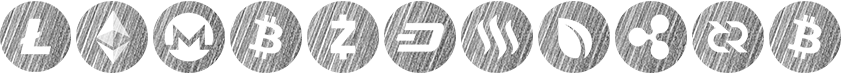
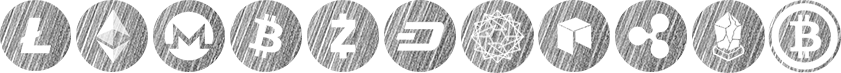
1 wave of edits

Changed region(s): [[0.0, 0.0, 1.0, 1.0], [0.9275, 0.9863, 0.9893, 1.0]]

diff --git a/css/main.css b/css/main.css
@@ -2,7 +2,7 @@
 @import url("bootstrap.min.css");
 @import url("style.css");
 body {
-	color: #3f3f3f;
+  color: #3f3f3f;
  font-family: "Helvetica";
   font-weight: normal;
   font-size: 14px;
@@ -32,7 +32,7 @@ h2, .h2, h3, .h3{margin: 0;}
 @media (min-width:992px) {.ccontainer { width: 960px; max-width: 100%  }}
 @media (min-width:1200px) {.ccontainer {width: 1170px;max-width: 100%}}
 .rrow {  display: -webkit-box;   display: -webkit-flex;   display: -ms-flexbox;   display: flex;   -webkit-flex-wrap: wrap;   -ms-flex-wrap: wrap;   flex-wrap: wrap;  margin-right: -15px;  margin-left: -15px}
-.get-started {  position: relative;padding-top: 181px;padding-bottom: 133px;}
+.get-started {  position: relative;padding-top: 181px;padding-bottom: 133px;background-image: url(../img/second-bg-top.png),url(../img/second-bg-bott.png);background-repeat: no-repeat;background-size: 76.4% auto;background-position: right 10%,right 90%;}
 .get-started-img-block {  position: absolute; left: 0; top: 19%; margin: auto; width: 47.8%;}
 .get-started-img-block > img {  position: absolute;-webkit-transition: all .3s ease-out;-o-transition: all .3s ease-out;transition: all .3s ease-out;}
 .get-started-img-block img:nth-child(1) { position: relative;width: 100%;}
@@ -61,14 +61,15 @@ h2, .h2, h3, .h3{margin: 0;}
 .integration-text li p {  position: relative; padding-left: 34px;}
 .integration-text li > p::before {  content: '';   width: 36px;   height: 1px;  background-color: #b59561;  display: block;  margin-left: -8px;  position: absolute;  top: 0;  bottom: 0;  margin: auto;  left: -8px;}
 .integration-text ul + p {  margin-top: 37px;   max-width: 354px;}
-.integration-text a { border: 1px solid black;   color: black;   text-decoration: none;   display: block;   width: 199px;   text-align: center;   margin-top: 52px;   line-height: 52px;  border-radius: 6px;}
+.integration-text a { border: 1px solid black;   color: black;   text-decoration: none;   display: block;   width: 199px;   text-align: center;   margin-top: 52px;   line-height: 52px;  border-radius: 6px;-webkit-transition: 0.5s;-o-transition: 0.5s;transition: 0.5s;}
 .integration-img-block {  position: absolute;   top: 190px;   right: 22%;   width: 31.3%;   height: 54%;}
 .integration-img-block > img {  position: absolute;  -webkit-transform: scale(0);  -ms-transform: scale(0);  transform: scale(0);}
-.integration-img-block img:nth-child(1) {top: 16%;    left: 5%;    width: 73.17%;    z-index: 4; -webkit-transition: all .3s ease-out; -o-transition: all .3s ease-out; transition: all .3s ease-out;}
-.integration-img-block img:nth-child(2) { top: 23%;  left: 32%;   width: 26.8%;  z-index: 3; -webkit-transition: all .3s ease-out .3s; -o-transition: all .3s ease-out .3s; transition: all .3s ease-out .3s;}
-.integration-img-block img:nth-child(3) {  top: 32%;   left: 32%;   z-index: 2;   width: 43.2%; -webkit-transition: all .3s ease-out .6s; -o-transition: all .3s ease-out .6s; transition: all .3s ease-out .6s;}
-.integration-img-block img:nth-child(4) { z-index: 1;    left: 4.5%;    top: 26%;   width: 51.85%; -webkit-transition: all .3s ease-out .9s; -o-transition: all .3s ease-out .9s; transition: all .3s ease-out .9s;}
-.integration-img-block img:nth-child(5) {  z-index: 1;   left: 32%;  top: 36%;  width: 39.7%; -webkit-transition: all .3s ease-out .9s; -o-transition: all .3s ease-out .9s; transition: all .3s ease-out .9s;}
+.integration-img-block img:nth-child(1) {top: 16%;    left: 5%;    width: 73.17%;    z-index: 4; -webkit-transition: all .5s ease-out; -o-transition: all .5s ease-out; transition: all .5s ease-out;}
+.integration-img-block img:nth-child(2) { top: 23%;  left: 32%;   width: 26.8%;  z-index: 3; -webkit-transition: all .5s ease-out .3s; -o-transition: all .5s ease-out .3s; transition: all .5s ease-out .3s;}
+.integration-img-block img:nth-child(3) {  top: 32%;   left: 32%;   z-index: 2;   width: 43.2%; -webkit-transition: all .5s ease-out .6s; -o-transition: all .5s ease-out .6s; transition: all .5s ease-out .6s;}
+.integration-img-block img:nth-child(4) { z-index: 1;    left: 4.5%;    top: 26%;   width: 51.85%; -webkit-transition: all .5s ease-out .9s; -o-transition: all .5s ease-out .9s; transition: all .5s ease-out .9s;}
+.integration-img-block img:nth-child(5) {  z-index: 1;   left: 32%;  top: 36%;  width: 39.7%; -webkit-transition: all .5s ease-out .9s; -o-transition: all .5s ease-out .9s; transition: all .5s ease-out .9s;}
+.integration-img-block img:nth-child(6) {  left: -44%;   top: -70%;   width: 207%; -webkit-transition: all .8s ease-out; -o-transition: all .8s ease-out; transition: all .8s ease-out;}
 .integration-img-block.actived img{-webkit-transform: scale(1);-ms-transform: scale(1);transform: scale(1);}
 .integration-img-block.actived img:nth-child(2) { top: 0; left: 38%;}
 .integration-img-block.actived img:nth-child(3) { top: 18%; left: 53%;}
@@ -153,7 +154,7 @@ h2, .h2, h3, .h3{margin: 0;}
 .instant-text h2 {  font-size: 40px;   max-width: 300px;}
 .instant-text h2::after {  width: 69px;   display: block;   background-color: #caa17a;   height: 4px;   margin-top: 24px;  content: '';}
 .instant-text p {  font-size: 16px;   max-width: 446px;   margin-top: 58px;  line-height: 1.85;}
-.instant-text a {  color: #b59561;   border: 1px solid #b59561;  width: 200px;   display: block;   text-align: center;  text-decoration: none; margin-top: 69px;   line-height: 52px;   font-size: 18px;   border-radius: 5px;}
+.instant-text a {  color: #b59561;   border: 1px solid #b59561;  width: 200px;   display: block;   text-align: center;  text-decoration: none; margin-top: 69px;   line-height: 52px;   font-size: 18px;   border-radius: 5px;-webkit-transition: 0.5s;-o-transition: 0.5s;transition: 0.5s;}
 footer { background-image: url(../img/footer-bg.jpg);padding-top: 54px;padding-bottom: 30px;}
 .footer-content {  display: -webkit-box;  display: -webkit-flex;  display: -ms-flexbox;  display: flex;   -webkit-box-pack: start;   -webkit-justify-content: flex-start;   -ms-flex-pack: start;   justify-content: flex-start;  width: 95%;  margin: 0 auto;}
 .logo-wrap {  margin-right: 9.65%;}
@@ -180,10 +181,13 @@ legend {  display: block;   width: initial;   padding: 0;  line-height: inherit;
 .currencies-links-wrap > a:nth-child(10) { background-position: 90% top;}
 .currencies-links-wrap > a:nth-child(11) { background-position: 100% top;}
 .sign_up {  color: #c0b19b;   border: 1px solid #c0b19b;   border-radius: 20px;}
-.head-btns > a {  display: inline-block;   width: 100px;   text-align: center;   line-height: 30px;   border-radius: 5px;   margin: 0 5px;}
+.head-btns > a {  display: inline-block;   width: 100px;   text-align: center;   line-height: 30px;   border-radius: 15px;  margin: 0 5px;-webkit-transition: 0.5s;-o-transition: 0.5s;transition: 0.5s;}
 .head-btns {  text-align: right;}
 .log_in {  color: #3f3f3f;   border: 1px solid #3f3f3f;}
-.cube1 {  width: 42.32%;}
-.cube2 {  width: 52%;}
+.links a {  display: inline-block;    width: 198px;    height: 54px;    border: 1px solid #313131;    line-height: 54px;    border-radius: 5px;    margin-left: 14px;    margin-right: 14px;    font-size: 20px;    color: #313131;    -webkit-transition: 0.5s;    -o-transition: 0.5s;    transition: 0.5s;}
+.links a:last-child {  color: #caa17a;   width: 180px;  border: 1px solid #caa17a;}
+.links a:hover,.head-btns>a:hover,.integration-text a:hover {  color: white;   background-color: #3f3f3f;   border-color: #3f3f3f;}
+.links a:last-child:hover,.head-btns>a:last-child:hover,.instant-text a:hover {color: white;background-color: #caa17a; border-color: #caa17a;}
+
 
 

diff --git a/css/media.css b/css/media.css
@@ -29,7 +29,7 @@
 .get-started li > p {  font-size: 16px;}
 .integration-img-block {top: 279px; height: 28%;}
 .checkout-solution {  padding-top: 37px;   padding-bottom: 80px;}
-.checkout-img-block {left: 0.6%;  top: 5%;}
+.checkout-img-block {left: -1%;  top: 5%;}
 .target-text + img {right: 0.8%;}
 .currenci-icon {   height: 50px;   width: 50px;   background-size: auto 100%;}
 .instant-curr { padding-bottom: 100px;}
@@ -41,9 +41,12 @@
 .currenci::after {top: 25px;}
 .dotted {  width: 8%;}
 .globe-wrap svg {top: -127px;left: 40px;}
+.integration-img-block img:nth-child(6) {  left: -44%;   top: -102%;   width: 207%;}
 
 }
-@media only screen and (max-width : 1050px){.dotted {  width: 1%;}}
+@media only screen and (max-width : 1050px){.dotted {  width: 1%;}
+.integration-img-block img:nth-child(6) {top: -90%;}
+}
 
 /* Medium Devices, Desktops */
 @media only screen and (max-width : 991px) {
@@ -71,10 +74,10 @@
 .percentage + p {  font-size: 14px;   margin-top: 12px;  line-height: 1.5;}
 .target-section::before {width: 31.15%;}
 .target-section::after {width: 40%;}
-.currencies h3 {  font-size: 28px;   margin-bottom: 33px;}
+.currencies h3 {  font-size: 28px;   margin-bottom: 33px;text-align: center;}
 .currencies-points .ccontainer {  width: 100%;    max-width: 500px;}
 .currenci:nth-child(6), .currenci:last-child {  margin-right: 0;}
-.currenci {  margin-right: 35px;   margin-bottom: 20px;}
+.currenci {  margin-right: 35px;   margin-bottom: 20px;width: 50px;text-align: center;}
 .currenci:nth-child(6)::after {  content: none;}
 .dotted {   display: none;}
 .currencies .rrow {    -webkit-flex-wrap: wrap;    -ms-flex-wrap: wrap;    flex-wrap: wrap;  -webkit-box-pack: center;  -webkit-justify-content: center;  -ms-flex-pack: center;  justify-content: center;}
@@ -90,16 +93,13 @@
 footer {  padding-top: 24px;}
 .globe-wrap svg {top: -91px;left: 30px;}
 .navbar-header {    float: left;}
-
-
-
-
-
-
-
+.integration-img-block {  height: 35%;}
 }
 
-
+@media only screen and (max-width : 800px){
+	.integration-img-block {  top: 180px;   height: 47%;  width: 42.3%;  right: 11%;}
+	.integration-img-block img:nth-child(6) { top: -68%;}
+}
 
 /* Small Devices, Tablets */
 @media only screen and (max-width : 767px) {
@@ -149,6 +149,7 @@ section {  padding: 0 15px;}
 .currencies {   width: 370px;  margin: 0 auto;   margin-top: 50px;}
 .navbar-header {  float: none;}
 .head-btns {  text-align: center;}
+.get-started {background-image: none;}
 
 
 }
@@ -159,7 +160,7 @@ section {  padding: 0 15px;}
 .links-item a,.links-item > .title {  font-size: 12px;}
 .currencies h3 {   font-size: 23px;}
 .currenci-icon {  height: 50px;   width: 50px;}
-.currencies {  width: 300px;}
+.currencies {  width: 300px;margin-top: 60px;}
 .currenci-icon {  height: 55px;   width: 55px;}
 .currenci:nth-child(4)::after, .currenci:nth-child(8)::after { content: '';}
 .currenci:nth-child(4), .currenci:nth-child(8){  margin-right: 30px;}
@@ -167,6 +168,13 @@ section {  padding: 0 15px;}
 .currenci:nth-child(3), .currenci:nth-child(6),.currenci:nth-child(9){  margin-right: 0px;}
 .links-item {  width: 50%;  margin-bottom: 17px;}
 .links-wrap {  -webkit-flex-wrap: wrap;  -ms-flex-wrap: wrap;  flex-wrap: wrap;}
+.currenci {width: 55px}
+.integration {  padding-bottom: 165px;}
+.integration-text a {  margin: 25px auto 0;}
+.checkout-solution h2 {  text-align: center;}
+.checkout-text h2::after {  margin: 19px auto 0;}
+
+
 
 }
 @media only screen and (max-width : 375px) {

diff --git a/js/common.js b/js/common.js
@@ -1,7 +1,13 @@
 $(document).ready(function() {
  $(document).scroll(function(){
+    if($(window).width()>800){
  	var temp = $(window).height()*0.2;
  	var temp1 = $(window).height()*0.5;
+    console.log($(window).height());
+    console.log(temp);
+    console.log(temp1);
+    console.log($(this).scrollTop()+$(window).height());
+    console.log($('.get-started').offset().top + $('.get-started').outerHeight());
         if($(this).scrollTop() >= $('.get-started').offset().top - temp && $(this).scrollTop() <= $('.get-started').offset().top + $('.get-started').outerHeight()- temp ) {
             $(".get-started-img-block").addClass('actived');
         }
@@ -26,6 +32,32 @@ $(document).ready(function() {
         if($(this).scrollTop() <= $('.target-section').offset().top - temp1*0.5 || $(this).scrollTop() >= $('.target-section').offset().top + $('.target-section').outerHeight()- temp1*0.5) {
             $(".target-text").removeClass('actived');
         }
+    }else{
+       if($(this).scrollTop() <= $('.get-started').offset().top && $(this).scrollTop()+$(window).height() >= $('.get-started').offset().top + $('.get-started').outerHeight() ) {
+            $(".get-started-img-block").addClass('actived');
+        }
+        if($(this).scrollTop() >= $('.get-started').offset().top + $('.get-started').outerHeight() || $(this).scrollTop()+$(window).height()-200 <= $('.get-started').offset().top) {
+            $(".get-started-img-block").removeClass('actived');
+        }
+        if($(this).scrollTop() <= $('.integration').offset().top && $(this).scrollTop()+$(window).height() >= $('.integration').offset().top + $('.integration').outerHeight()) {
+            $(".integration-img-block").addClass('actived');
+        }
+        if($(this).scrollTop() >= $('.integration').offset().top + $('.integration').outerHeight() || $(this).scrollTop()+$(window).height() <= $('.integration').offset().top) {
+            $(".integration-img-block").removeClass('actived');
+        }
+        if($(this).scrollTop() <= $('.checkout-solution').offset().top && $(this).scrollTop()+$(window).height() >= $('.checkout-solution').offset().top + $('.checkout-solution').outerHeight()) {
+            $(".checkout-img-block").addClass('actived');
+        }
+        if($(this).scrollTop() >= $('.checkout-solution').offset().top + $('.checkout-solution').outerHeight() || $(this).scrollTop()+$(window).height() <= $('.checkout-solution').offset().top) {
+            $(".checkout-img-block").removeClass('actived');
+        }
+        if($(this).scrollTop() <= $('.target-section').offset().top && $(this).scrollTop()+$(window).height() >= $('.target-section').offset().top + $('.target-section').outerHeight()) {
+            $(".target-text").addClass('actived');
+        }
+        if($(this).scrollTop() >= $('.target-section').offset().top + $('.target-section').outerHeight() || $(this).scrollTop()+$(window).height() <= $('.target-section').offset().top) {
+            $(".target-text").removeClass('actived');
+        }
+    }
  
     });
 	

diff --git a/index.html b/index.html
@@ -1,8 +1,8 @@
 <!DOCTYPE html>
-<html>
+<html lang="en">
 <head>
 	<meta charset="utf-8" />
-	<title>Заголовок</title>
+	<title>Cryptopayz</title>
 	<meta http-equiv="X-UA-Compatible" content="IE=edge" />
 	<meta name="viewport" content="width=device-width, initial-scale=1.0" />
 	<link rel="shortcut icon" href="favicon.png" />
@@ -27,7 +27,7 @@
                     <!-- Brand and toggle get grouped for better mobile display -->
                     <div class="navbar-header">
                         <a class="navbar-brand" href="#">
-                            <img src="images/logo.png" />
+                            <img src="images/logo.png" alt="Cryptopayz" />
                         </a>
                     </div>
                     <div class="head-btns"><a class="log_in" href="#">Log In</a><a href="#" class="sign_up">Sign Up</a></div>
@@ -253,6 +253,7 @@
 						<img src="img/integration-img3.png" alt="">
 						<img src="img/integration-img4.png" alt="">
 						<img src="img/integration-img5.png" alt="">
+						<img src="img/integration-img-bg.png" alt="">
 					</div>
 				</div>
 			</div>
@@ -324,11 +325,11 @@ Fastest sending and receiving payments using QR code scanner.</p>
 							</div>
 							<div class="currenci">
 								<div class="currenci-icon"></div>
-								<p>Steem</p>
+								<p>Power Ledger</p>
 							</div>
 							<div class="currenci">
 								<div class="currenci-icon"></div>
-								<p>Peercoin</p>
+								<p>Neo</p>
 							</div>
 							<div class="currenci">
 								<div class="currenci-icon"></div>
@@ -336,11 +337,11 @@ Fastest sending and receiving payments using QR code scanner.</p>
 							</div>
 							<div class="currenci">
 								<div class="currenci-icon"></div>
-								<p>Decred</p>
+								<p>Lisk</p>
 							</div>
 							<div class="currenci">
 								<div class="currenci-icon"></div>
-								<p>Bitcoin</p>
+								<p>Bitcoin Gold</p>
 							</div>
 						</div>
 					</div>
@@ -474,7 +475,7 @@ Fastest sending and receiving payments using QR code scanner.</p>
 		<footer>
 			<div class="footer-content">
 				<div class="logo-wrap">
-					<a href=""><img src="img/foot-logo.png" alt=""></a>
+					<a href=""><img src="img/foot-logo.png" alt="Cryptopayz"></a>
 				</div>
 				<div class="links-wrap">
 					<div class="links-item">
